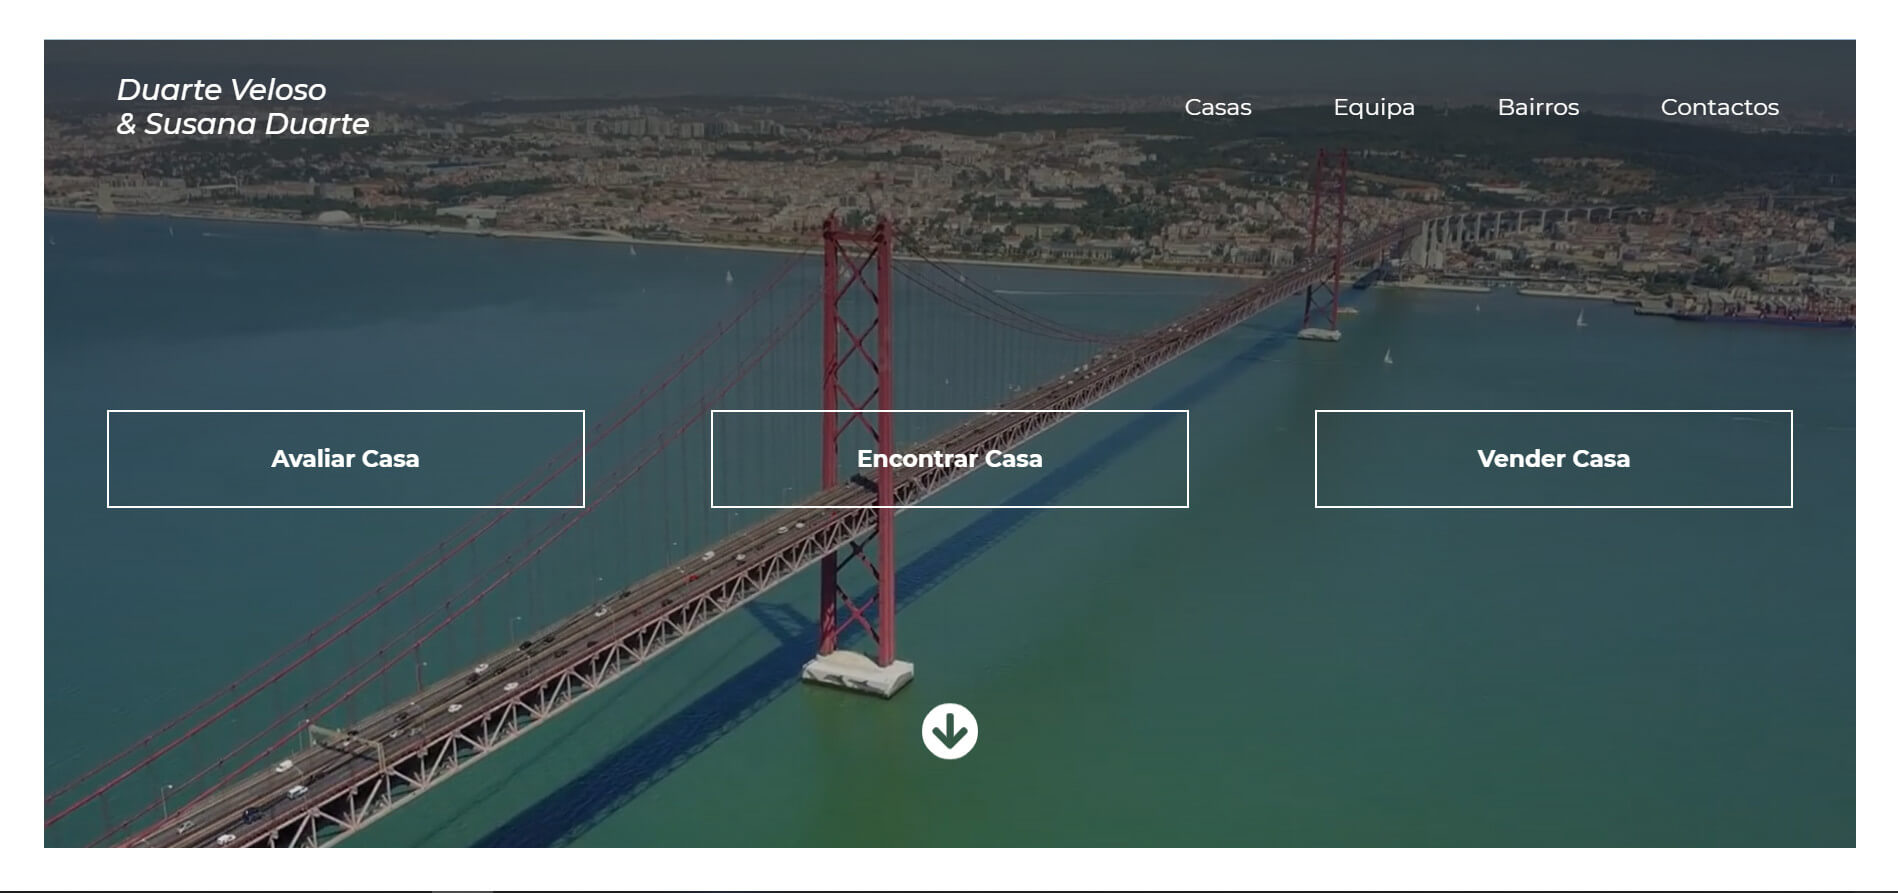
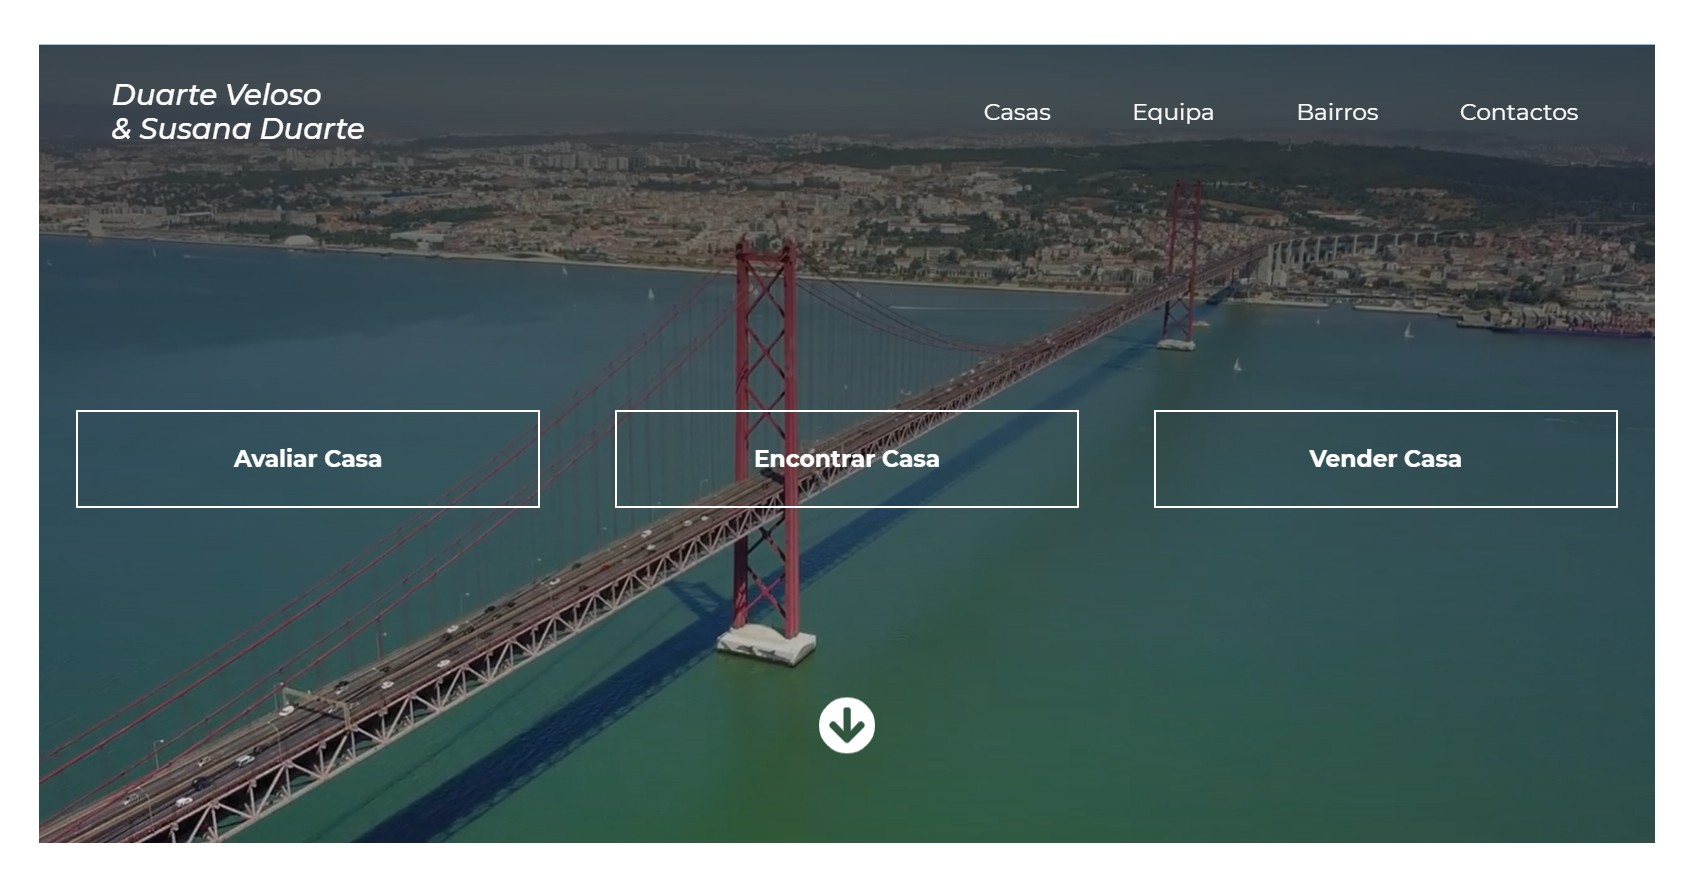
finishing touches

Changed region(s): [[0.0, 0.0306, 1.0, 1.0], [0.0312, 0.4597, 0.3119, 0.5823], [0.156, 0.7049, 0.1872, 0.7355]]

diff --git a/src/data/work-data.js b/src/data/work-data.js
@@ -3,6 +3,8 @@ const workData = [
 		id: 1,
 		name: "Nature-Expeditions",
 		url: "https://nature-expeditions.herokuapp.com/",
+		urlGit: "https://github.com/hugopcveloso/natours-app",
+		gitAvailable: true,
 		localimage: "nature-expeditions.jpg",
 		description:
 			"Nature expeditions é uma aplicação full-stack em NodeJs, que desenvolvi no âmbito de um curso de Nodejs\
@@ -21,6 +23,8 @@ const workData = [
 		id: 2,
 		name: "Media I watched",
 		url: "https://nature-expeditions.herokuapp.com/",
+		urlGit: "https://github.com/hugopcveloso/movie-blog",
+		gitAvailable: true,
 		localimage: "altsolutions-screen.jpg",
 		description:
 			"Media I watched é uma aplicação full-stack em NextJS para o front-end e NodeJS utilizando o Strapi, um headless CMS\
@@ -39,6 +43,8 @@ const workData = [
 		id: 3,
 		name: "Duarte&Duarte imobiliários",
 		url: "https://duarteduarte.vercel.app/",
+		urlGit: "https://github.com/hugopcveloso/duarteduarte",
+		gitAvailable: true,
 		localimage: "duarteeduarte.jpg",
 		description:
 			"Duarte&Duarte é um site em NextJS/React para uma equipa de agentes imobiliários, com um guia da cidade, testemunhos e o portfolio,\
@@ -52,6 +58,8 @@ const workData = [
 		id: 4,
 		name: "Alt-Solutions",
 		url: "http://www.altsolutions.net/",
+		urlGit: "",
+		gitAvailable: false,
 		localimage: "altsolutions-screen.jpg",
 		type: "",
 		description:
@@ -59,8 +67,8 @@ const workData = [
 			Também fiz alguns serviços de scraping de informações em páginas dinâmicas que seriam do interesse da Alt Solutions.\
 			É importante notar que as decisões relativamente ao Design foram tomadas lado-a-lado com o cliente.",
 		description_eng:
-			"I developed the website for Alt Solutions in Ruby on Rails, it's \
-		  important to note that both the design and UX were \
+			"I developed the website for Alt Solutions in Ruby on Rails but because of a change of plans\
+			I then translated it into Wordpress, it's important to note that both the design and UX were \
 			decided by the client in the side-by-side prototyping phase. \
 			I also scraped databases that were in the interest of Alt Solutions.",
 		technologies:
@@ -68,8 +76,27 @@ const workData = [
 	},
 	{
 		id: 5,
+		name: "Antena Quarentena",
+		url: "https://antena-quarentena.herokuapp.com/",
+		urlGit: "https://github.com/hugopcveloso/antena_quarentena",
+		gitAvailable: true,
+		localimage: "antena-quarentena.jpg",
+		type: "",
+		description: "",
+		description_eng:
+			"Antena Quarentena was a pet-project that I started right after the Coding Bootcamp\
+			In this project I tried to create a platform similar to Reddit, communities, posts, nested comment threads,\
+			the user can also create and subscribe to communities and it's possible to upvote/downvote both comments and posts.\
+			The project was just a way to practice Ruby on Rails, eventually I realized some of the limitations of Ruby and Vanilla Javascript,\
+			I used StimulusJS for some interactivity and eventually stopped working on this project to focus mainly on Javascript.",
+		technologies: "Ruby, Ruby on Rails, Javascript, Stimulus",
+	},
+	{
+		id: 6,
 		name: "Host-Roulette",
 		url: "http://www.host-roulette.com/",
+		urlGit: "https://github.com/petah-sama/host-roulette",
+		gitAvailable: true,
 		localimage: "hostroulette-screen.jpg",
 		description:
 			"A aplicação Host-Roulette foi desenvolvida em 2 semanas por uma equipa de 4 pessoas como parte do projecto final do Le Wagon Coding Bootcamp.\
@@ -88,9 +115,11 @@ const workData = [
 			"Ruby, Ruby on Rails, Javascript, HTML, CSS, Bootstrap, PostgreSQL, GitHub, Figma",
 	},
 	{
-		id: 6,
+		id: 7,
 		name: "Efeito Contexto",
 		url: "https://efeitocontexto.com/",
+		urlGit: "https://github.com/hugopcveloso",
+		gitAvailable: false,
 		localimage: "efeito-contexto-screen.jpg",
 		description:
 			"Efeito Contexto é um blog acerca de como os humanos tendem a interagir com informação, baseando o seu conteúdo em psicologia cognitiva e filosofia\
@@ -103,9 +132,11 @@ const workData = [
 		technologies: "Wordpress, Illustrator, Photoshop.",
 	},
 	{
-		id: 7,
+		id: 8,
 		name: "Comporta App",
 		url: "https://www.comportaapp.com/",
+		urlGit: "https://github.com/hugopcveloso",
+		gitAvailable: false,
 		localimage: "screen-comportaapp.png",
 		description:
 			"Comporta App é um PWA, um site para ser utilizado em mobile, parte de um programa Europeu para desenvolver a região.\

diff --git a/src/style/portfolio.scss b/src/style/portfolio.scss
@@ -37,9 +37,11 @@
 .job-container {
 	transition: transform 0.7s ease-in-out;
 	padding-bottom: 60px;
-	padding: 30px;
+	padding: 30px 0px;
 	flex-wrap: wrap;
 	position: relative;
+	margin: 0px 40px;
+
 	.job-header {
 		display: flex;
 		justify-content: space-between;
@@ -54,13 +56,15 @@
 		margin: 0 auto;
 		display: block;
 		width: 100%;
+		box-shadow: 5px 5px 1px rgba(255, 255, 0, 0.27);
 	}
 	.job-content-container {
 		margin: 0 auto;
-		height: 100%;
+		height: auto;
 		text-align: left;
 		font-size: 16px;
 		.job-name {
+			margin-top: 30px;
 			font-size: 30px;
 			text-decoration: none;
 			font-family: "Ubuntu";
@@ -71,22 +75,31 @@
 		.job-technologies {
 			font-weight: bold;
 		}
+		.job-description {
+			margin-bottom: 20px;
+		}
 		.site-button {
+			position: absolute;
+			bottom: 0;
 			transition: padding 1s ease-in-out;
 			padding: 12px 25px;
 			background-color: #fcf01f;
 			text-decoration: none;
 			color: black;
 			font-weight: 500;
+			margin-bottom: 20px;
 			&:hover {
-				padding-left: 0px;
-				padding-right: 25px;
+				padding-left: 50px;
+				padding-right: 0px;
 				transition: background-color 1s ease-in-out;
 				transition: padding 1s ease-in-out;
 				background-color: black;
 				color: white;
 				font-weight: bold;
 			}
+		}
+		.site-button-github {
+			left: 120px;
 		}
 	}
 }
@@ -98,38 +111,43 @@
 }
 
 @media (max-width: 600px) {
+	.portfolio-title {
+		padding-top: 70px;
+	}
 	.work-list {
 		grid-template-columns: 1fr;
-		width: 90%;
+		width: 95%;
 	}
 
 	.job-container {
-		padding-bottom: 40px;
-	}
+		padding-bottom: 30px;
+		border-bottom: solid 1px rgba(211, 211, 211, 0.423);
 
-	.job-content-container {
-		margin-bottom: 30px;
-		min-width: 100% !important;
-		margin-top: 30px;
-		.job-name {
-			a {
-				font-size: 20px;
+		.job-content-container {
+			margin-bottom: 20px;
+			min-width: 100% !important;
+			margin-top: 20px;
+			.job-header {
+				h3 {
+					margin-top: 10px;
+					font-size: 25px !important;
+					text-align: center;
+				}
+			}
+
+			p {
+				font-size: 15px;
 			}
 		}
-		.site-button {
+		.job-image {
+			min-width: 100% !important;
+			width: 100% !important;
 		}
-		p {
-			font-size: 15px;
-		}
-	}
-	.job-image {
-		min-width: 100% !important;
-		width: 100% !important;
 	}
 }
+
 @media (max-width: 900px) {
 	.work-list {
-		width: 80%;
 		grid-template-columns: 1fr;
 	}
 }

diff --git a/src/sections/Banner.jsx b/src/sections/Banner.jsx
@@ -2,6 +2,7 @@ import React from "react";
 import Sidebar from "../components/Sidebar";
 import BannerPhoto from "../images/hugo-newphoto.jpg";
 import Navbar from "./Navbar";
+import { Link, animateScroll as scroll } from "react-scroll";
 
 function Banner() {
 	return (
@@ -13,15 +14,28 @@ function Banner() {
 						<div className="banner-content">
 							<div className="banner-text-container col-md-12 col-lg-6">
 								<h1>
-									Web Developer <br /> &Designer
+									Web Developer <br /> & Designer{" "}
+									<span className="ponto-virgula">;</span>
 								</h1>
 								<p>
-									Hey, my name is Hugo Veloso, I'm a Full-Stack Javascript
-									Developer and this is my Portfolio.
+									Hey, my name is Hugo Veloso
+									<span className="ponto-virgula">;</span>{" "}
 								</p>
-								<a href="#portfolio-section" className="cta-banner">
+								<p>
+									I'm a Full-Stack Javascript Developer{" "}
+									<span className="ponto-virgula">;</span>
+								</p>
+								<Link
+									activeClass="active"
+									className="cta-banner"
+									to="portfolio-section"
+									spy={true}
+									smooth={true}
+									offset={0}
+									duration={800}
+								>
 									Portfolio
-								</a>
+								</Link>
 							</div>
 							<div className="banner-photo col-md-12 col-lg-6">
 								<svg

diff --git a/src/style/banner.scss b/src/style/banner.scss
@@ -28,8 +28,10 @@
 		width: 90%;
 		h1 {
 			font-size: calc(26px + (64 - 26) * ((100vw - 300px) / (1600 - 300)));
+			margin-bottom: 40px;
 		}
 		p {
+			margin: 0px;
 			font-size: calc(18px + (22 - 18) * ((100vw - 300px) / (1600 - 300)));
 		}
 	}
@@ -46,12 +48,17 @@
 	}
 }
 
+.ponto-virgula {
+	color: yellow;
+}
+
 .cta-banner {
 	transition: padding 1s ease-in-out;
 	display: inline-block;
 	border: none;
 	padding: 10px 20px;
 	margin: 0;
+	margin-top: 30px;
 	text-decoration: none;
 	font-weight: bold;
 	background: #fcf01f;
@@ -89,6 +96,9 @@
 	.banner-container {
 		margin: 0;
 		padding: 0px;
+		.banner-wrapper {
+			margin-top: -60px;
+		}
 	}
 	.header-container {
 		padding: 30px 0px;
@@ -99,17 +109,27 @@
 		width: 100%;
 		padding: 0px 0px 40px 0px;
 		margin-top: 0px;
-		h1 {
-			margin-bottom: 20px;
-		}
+
 		.banner-text-container {
+			padding: 0px;
+			text-align: center;
+			h1 {
+				text-align: left;
+				margin-bottom: 20px;
+			}
+			p {
+				text-align: left;
+			}
+			.cta-banner {
+				text-align: center;
+				margin-top: 20px;
+				margin-bottom: 20px;
+			}
 		}
 	}
-	.cta-banner {
-		margin-top: 20px;
-		margin-bottom: 20px;
-	}
+
 	.banner-photo {
+		height: 65vh;
 		svg {
 			max-width: 70vw;
 		}

diff --git a/src/components/job.jsx b/src/components/job.jsx
@@ -9,8 +9,9 @@ const Job = (props) => {
 		url,
 		localimage,
 		id,
-		description,
 		description_eng,
+		gitAvailable,
+		urlGit,
 		technologies,
 	} = props.job;
 
@@ -26,12 +27,24 @@ const Job = (props) => {
 					<h3 className="job-name">{name}</h3>
 				</div>
 				<p className="job-technologies"> {technologies} </p>
-				<div className={`job-collapsed display-show`}>
+				<div className="job-description-container">
 					<p className="job-description">{description_eng}</p>
-					<a href={url} target="_blank" className=" site-button">
-						{" "}
-						Visitar{" "}
-					</a>
+					<div className="job-links">
+						<a href={url} target="_blank" className=" site-button">
+							{" "}
+							Visitar{" "}
+						</a>
+						{gitAvailable && (
+							<a
+								href={urlGit}
+								target="_blank"
+								className="site-button site-button-github"
+							>
+								{" "}
+								Github{" "}
+							</a>
+						)}
+					</div>
 				</div>
 				<br />
 			</div>

diff --git a/src/style/tech.scss b/src/style/tech.scss
@@ -32,9 +32,14 @@
 	transition: 1s ease-in;
 	justify-self: center;
 	align-self: end;
+	transition: all 0.2s ease-in-out 0.2s;
 	h5 {
 		margin-top: 5px;
 		font-size: 20px;
+	}
+	&:hover {
+		transform: scale(1.1);
+		transition: all 0.5s ease 0s;
 	}
 }
 
